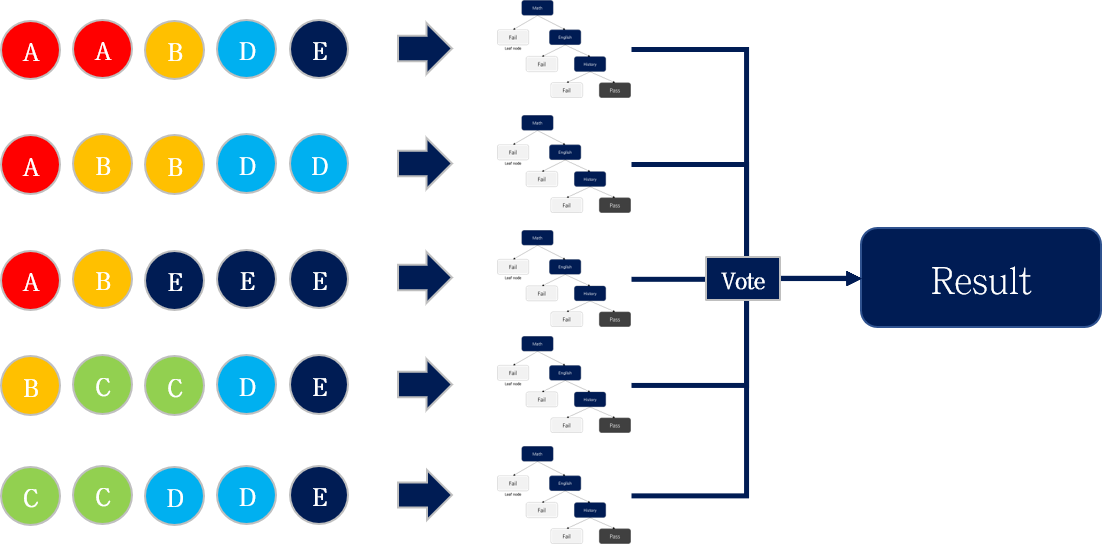
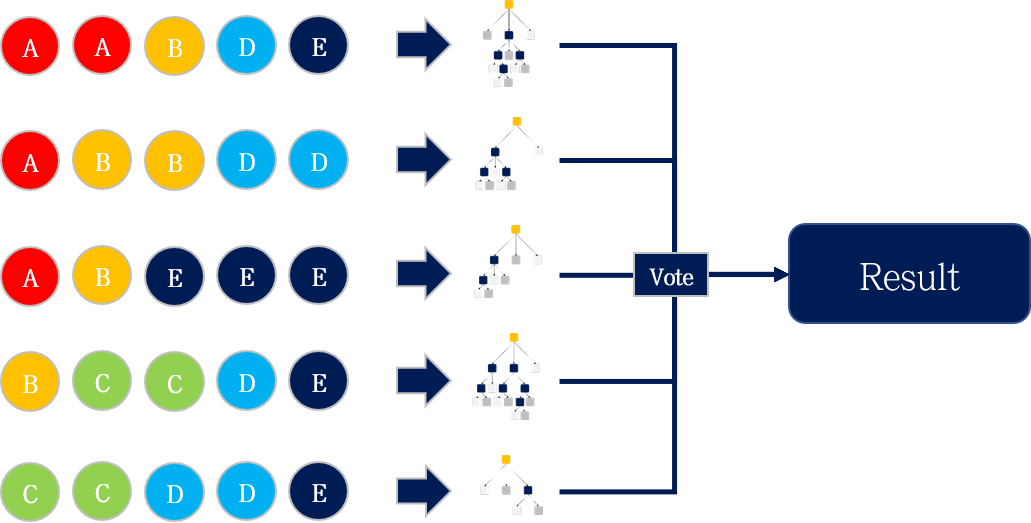
AdaBoost 설명 이미지 추가

diff --git a/_posts/2020-10-08-ensemble-3-boosting-AdaBoost.md b/_posts/2020-10-08-ensemble-3-boosting-AdaBoost.md
@@ -20,10 +20,15 @@ use_math: true
 
 이전 글 보기: [배깅 앙상블 (Bagging Ensemble): Random Forest](https://tyami.github.io/machine%20learning/ensemble-2-bagging-random-forest/)
 
-> 이전 포스팅에서는 배깅 (Bagging) 앙상블의 대표적인 예시인 Random Forest 알고리즘에 대해 정리했습니다.
-> 이번 포스팅에서는 또 다른 앙상블 알고리즘인 부스팅 알고리즘의 가장 첫번째 모델인 AdaBoost 알고리즘을 정리해보겠습니다. 그림은 나중에 추가하는거로 !
+> 이전 포스팅에서는 배깅 (Bagging) 앙상블의 대표적인 예시인 Random Forest 알고리즘에 대해 정리했습니다.  
+> 이번 포스팅에서는 또 다른 앙상블 알고리즘인 부스팅 (Boosting)의 가장 첫번째 모델인 AdaBoost 알고리즘을 정리해보겠습니다. 그림은 나중에 추가하는거로 !
 
-- 참고 자료 (Youtube): [AdaBoost, Clearly Explained](https://www.youtube.com/watch?v=LsK-xG1cLYA) by StatQuest
+## AdaBoost
+AdaBoost는 Adaptive Boosting의 약자로, Boosting 알고리즘의 첫 모델이기도 합니다.
+
+이전 포스팅에서 정리한 Random forest는 decision trees의 숲이라고 할 수 있습니다. 다양한 decision tree가 조화롭게 모여 일반화된 예측 결과를 만듭니다.
+
+반면 AdaBoost는 **다양한 크기**의 **stump**로 이루어진 숲으로 볼 수 있습니다.
 
 ## AdaBoost의 3가지 Concepts
 1. Forest of stumps
@@ -31,86 +36,151 @@ use_math: true
 3. Sequential
 
 ### 1. Forest of stumps
-- Random forest에서는 개별 모델로 **decision tree**를 사용한다.
-- AdaBoost에서는 개별 모델로 **stump**를 사용한다.
-  - Stump: a tree with just one node and two leaves
-  - Stump는 tree보다 정확도는 떨어지는 weak learner다.
+Random forest에서는 개별 모델로 **decision tree**를 사용합니다.
+
+![AdaBoost = Forest of stumps]({{ site.url }}{{ site.baseurl }}/assets/images/post/ML/2020-10-08-stump.png)
+
+반면, AdaBoost에서는 개별 모델로 **stump**를 사용합니다. Stump란 **한 노드와 두 개의 가지를 갖는 decision tree**로 정의할 수 있습니다. 
 
 ### 2. Different weights for each stump 
-- Random forest에서 모든 tree는 **동일한 weight**를 갖는다.
-- AdaBoost에서 각 stump는 **서로 다른 weight (amount of say)**를 갖는다.
+Random forest에서 모든 tree는 **동일한 weight**를 갖습니다.
+
+![AdaBoost = Forest of stumps]({{ site.url }}{{ site.baseurl }}/assets/images/post/ML/2020-10-08-AdaBoost.png)
+
+반면, AdaBoost에서 각 stump는 **서로 다른 weight (amount of say)**를 갖습니다. 즉, 최종 앙상블 시, 개별 모델마다 예측 결과값에 가중치를 달리 부여합니다.
 
 ### 3. Sequential
-- Random forest에서 tree들은 **parallel**하게 만들어진다.
-- AdaBoost에서 stump들은 **sequential**하게 만들어진다.
+
+![AdaBoost = Forest of stumps]({{ site.url }}{{ site.baseurl }}/assets/images/post/ML/2020-10-07-random-forest-decision-tree.png)
+
+Random forest에서 tree들은 **parallel**하게 만들어집니다. 즉, decision tree간 서로 영향이 없습니다.
+
+![AdaBoost = Forest of stumps]({{ site.url }}{{ site.baseurl }}/assets/images/post/ML/2020-10-08-AdaBoost-sequential.png)
+
+반면, AdaBoost에서 stump들은 **sequential**하게 만들어진다는 특징을 갖습니다. 즉, 기존에 만들어진 stump가 이후 만들어질 stump 생성에 영향을 줍니다.
 
 ## AdaBoost 학습 순서
+AdaBoost의 학습순서는 위와 같이 나타낼 수 있습니다. 예시를 보며 차근차근 따라해봅시다.
+
+> 예시 그림 출처: [AdaBoost, Clearly Explained](https://www.youtube.com/watch?v=LsK-xG1cLYA) by StatQuest
+
 ### 1. Initial sample weight
-Initial sample weight는 모두 동일하게 해준다
+![AdaBoost Step 1]({{ site.url }}{{ site.baseurl }}/assets/images/post/ML/2020-10-08-AdaBoost-step1.png)
+
+Initial sample weight는 모두 동일하게 해줍니다.
 
 \[ 
-sample\; weight=\frac{1}{total\; number\; of\; samples}
+Initial\; sample\; weight=w_{i,1}=\frac{1}{total\; number\; of\; samples}
 \]
 
 ### 2. First stump
-Impurity를 바탕으로 best attribute로 분기하는 stump를 완성한다.
+
+![AdaBoost Step 2]({{ site.url }}{{ site.baseurl }}/assets/images/post/ML/2020-10-08-AdaBoost-step2.png)
+
+Impurity (Gini index)를 바탕으로 best attribute로 분기하는 stump를 완성합니다.
 
 ### 3. Amount of say
-완성한 stump의 분류 결과에 따라 amount of say (stump의 weight)를 계산해준다.
 
-\\(total\; error\\)는 **오분류된 샘플의 sample weight 총합**으로 정의될 수 있다. 전체 Sample weights의 총합이 1이기 때문에 최고의 Stump (모두 맞춤)를 만든 경우 total error 는 0, 반대로 최악의 Stump를 만든 경우 total error는 1을 갖는다.
+![AdaBoost Step 3-1]({{ site.url }}{{ site.baseurl }}/assets/images/post/ML/2020-10-08-AdaBoost-step3-1.png)
+
+완성한 stump의 분류 결과에 따라 amount of say \\(\alpha_t\\)를 계산해준다. \\(\alpha_t\\)는 각 앙상블 시 각 모델의 예측값 \\(h_t\\)에 대한 가중치로 사용됩니다.
 
 \[
-Amount\; of\; say=\frac{1}{2}log(\frac{1-total\; error}{total\; error})
+Amount\; of\; say=\alpha_t=\frac{1}{2}log(\frac{1-\epsilon_t}{\epsilon_t})
 \]
 
-total error에 따른 Amount of say의 변화를 그림으로 그려보면, total error가 낮을 때 (<0.5)는 양의 amount of say, total error가 높을 때 (>0.5)는 음의 amount of say를 갖는다. 또한 amount of say의 절대값은 total error가 극단적인 값일 수록 (0 또는 1에 가까울수록) 더욱 더 커진다.
-
-### 4. Updated sample weight
-오분류된 샘플의 sample weight는 늘리고, 잘 분류된 샘플의 sample weight는 낮춘다.  
-
-#### 4.1. 오분류된 샘플
-샘플마다 업데이트되는 가중치 양에는 차이가 없다.
+여기서 \\(\epsilon_t\\)는 Total error로 **오분류된 샘플의 sample weight 총합**으로 정의됩니다. 즉, 위 이미지에서는 한 개 샘플만 틀렸으니 1/8이 됩니다.
 
 \[
-New\; sample\; weight=sample\; weight \times e^{amount\; of\; say}
+\epsilon_t=\sum_{
+\begin{matrix}
+  i=1 \\
+  h_t(x_i)\neq y_i
+\end{matrix}
+}^n w_{i,t}
+\]
+
+전체 Sample weights의 총합이 1이기 때문에 최고의 Stump (모두 맞춤)를 만든 경우 \\(\epsilon_t\\)는 0, 반대로 최악의 Stump (모두 틀림)를 만든 경우 \\(\epsilon_t\\)는 1을 갖습니다.
+
+![AdaBoost Step 3-2]({{ site.url }}{{ site.baseurl }}/assets/images/post/ML/2020-10-08-AdaBoost-step3-2.png)
+
+또한 \\(\epsilon_t\\)에 따른 \\(\alpha_t\\)의 변화를 그림으로 그려보면, \\(\epsilon_t\\)가 낮을 때는 (<0.5)는 양의 \\(\alpha_t\\)를, \\(\epsilon_t\\)가 높을 때는 (>0.5)는 음의 \\(\alpha_t\\)를 갖습니다. 또한 \\(|\alpha_t|\\)는 \\(\epsilon_t\\)가 극단적인 값일 수록 (0 또는 1에 가까울수록) 더욱 더 커지는 것을 볼 수 있습니다.
+
+위의 예시에서 계산한 amount of say \\(\alpha_t\\)는 0.97입니다.
+
+### 4. Updated sample weight
+각 sample weight \\(w_{i,t}\\)을 \\(w_{i,t+1}\\)로 업데이트할 차례입니다.  
+여기서 핵심은 오분류된 샘플의 sample weight는 늘리고, 잘 분류된 샘플의 sample weight는 낮춰주는 것입니다.
+
+#### 4.1. 오분류된 샘플
+> 참고: 샘플마다 업데이트되는 가중치 양에는 차이가 없습니다.
+
+\[
+New\; sample\; weight=w_{i,t+1}=w_{i,t} \times e^{\alpha_t}
 \]
 
 #### 4.2. 정분류된 샘플
-마찬가지로 샘플마다 업데이트되는 가중치 양에는 차이가 없다.
+> 마찬가지로 샘플마다 업데이트되는 가중치 양에는 차이가 없습니다.
 
 \[
-New\; sample\; weight=sample\; weight \times e^{-amount\; of\; say}
+New\; sample\; weight=w_{i,t+1}=w_{i,t} \times e^{-\alpha_t}
 \]
 
 #### 4.3 총합=1로 정규화
-Sample weight의 총합이 1이 되도록 normalize해준다.
+Sample weight의 총합이 1이 되도록 normalize해줍니다.
 
 \[
 Normalized\; sample\; weight=\frac{New\; sample\; weight}{\sum New\; sample\; weight}
 \]
 
+따라서 아래와 같이 새로운 \\(w_{i,t+1}\\)를 얻습니다.
+
+![AdaBoost Step 4]({{ site.url }}{{ site.baseurl }}/assets/images/post/ML/2020-10-08-AdaBoost-step4.png)
+
+오분류된 네 번째 샘플은 가중치가 높아진 반면, 나머지 샘플들은 가중치가 낮아진 것을 확인할 수 있습니다.
+
 ### 5. Next stump
-Sample weight를 적용한 새로운 Stump를 만든다. 분기 시, Impurity를 계산할 때 두 가지 방법으로 sample weight를 적용할 수 있다.
+업데이트된 Sample weight를 적용한 새로운 Stump를 만듭니다. 분기 시, Impurity를 계산할 때 두 가지 방법으로 sample weight를 적용할 수 있습니다.
 
 #### 5.1. Weighted Gini index
+Sample weight를 각 샘플에 적용하여 Gini index를 계산합니다.
+
+> 아래 수식이 맞는지는 확인이 필요합니다.
 
 \[
-Weighted\; Gini\; index= \sum_{i=1}^C w_ip_i(1-p_i)
+Weighted\; Gini\; index= \sum_{i=1}^C w_{i,t}p_i(1-p_i)
 \]
 
 #### 5.2. Resampling
-중복을 허용하여 Dataset을 resampling 후 Gini index를 계산한다
-- Sample weight를 바탕으로 0~1의 구간을 나눠준다. 
-- 0~1값을 원래 샘플 수만큼 random sampling 하고, 이 값에 따라 원 데이터에서 데이터를 다시 sampling한다. 
-- Sample weight가 큰 경우, 더 넓은 구간을 갖기 때문에, 이 샘플이 더 자주 뽑히게 된다.
-이 방법을 사용할 경우, 새로 sampling한 데이터셋의 sample weight는 \\(\frac{1}{total\; number\; of\; samples}\\)로 초기화해준다. sample weight는 일정하지만, 동일한 샘플이 더 많이 있기 때문에, 결과적으로 sample weight이 다른 것과 동일한 효과를 줄 수 있다.
+중복을 허용하여 Dataset을 resampling 후 Gini index를 계산합니다.
+
+![AdaBoost Step 5-1]({{ site.url }}{{ site.baseurl }}/assets/images/post/ML/2020-10-08-AdaBoost-step5-1.png)
+
+- 먼저 Sample weight를 바탕으로 0~1의 구간을 나눕니다.
+- 0~1값을 원래 샘플 수만큼 random sampling 하고, 이 값에 따라 원 데이터에서 데이터를 다시 sampling합니다.
+- Sample weight가 큰 경우, 더 넓은 구간을 갖기 때문에, 이 샘플이 더 자주 뽑히게 됩니다.
+
+![AdaBoost Step 5-2]({{ site.url }}{{ site.baseurl }}/assets/images/post/ML/2020-10-08-AdaBoost-step5-2.png)
+
+위와 같이 네번째 샘플이 많이 포함된 새로운 데이터셋이 만들어졌습니다. sample weight를 다시 \\(\frac{1}{total\; number\; of\; samples}\\)로 초기화해줍니다. (Sample weight는 일정하지만, 동일한 샘플이 더 많이 있기 때문에, 결과적으로 sample weight이 다른 것과 동일한 효과를 줍니다)
 
 ### 6. Repetition
-정해진 iteration만큼 stump가 생성될 때까지 3~5 과정을 반복한다.
+
+![AdaBoost Step 6]({{ site.url }}{{ site.baseurl }}/assets/images/post/ML/2020-10-08-AdaBoost-step6.png)
+
+정해진 iteration만큼 stump가 생성될 때까지 3~5 과정을 반복합니다.
 
 ### 7. 최종 예측
-테스트 시, 모든 Stump 의 예측값에 amount of say를 가중치로 주고, Hard voting을 해서 최종 예측값을 얻어낸다.
+
+![AdaBoost Step 7]({{ site.url }}{{ site.baseurl }}/assets/images/post/ML/2020-10-08-AdaBoost-step7.png)
+
+\\(N\\)번의 iteration을 진행 후, 모든 Stump 의 예측값 \\(h_t(x)\\)에 amount of say \\(\alpha_t\\)를 가중치로 곱하는 Hard voting을 통해 최종 예측값을 얻어냅니다.
+
+\[
+F(x)=\sum_{t=1}^N \alpha_t h_t(x)
+\]
+
+---
 
 > 다음 포스팅에서는 또 다른 부스팅 (Boosting) 앙상블 알고리즘인 Gradient Boosting에 대해 정리해보겠습니다.
 
